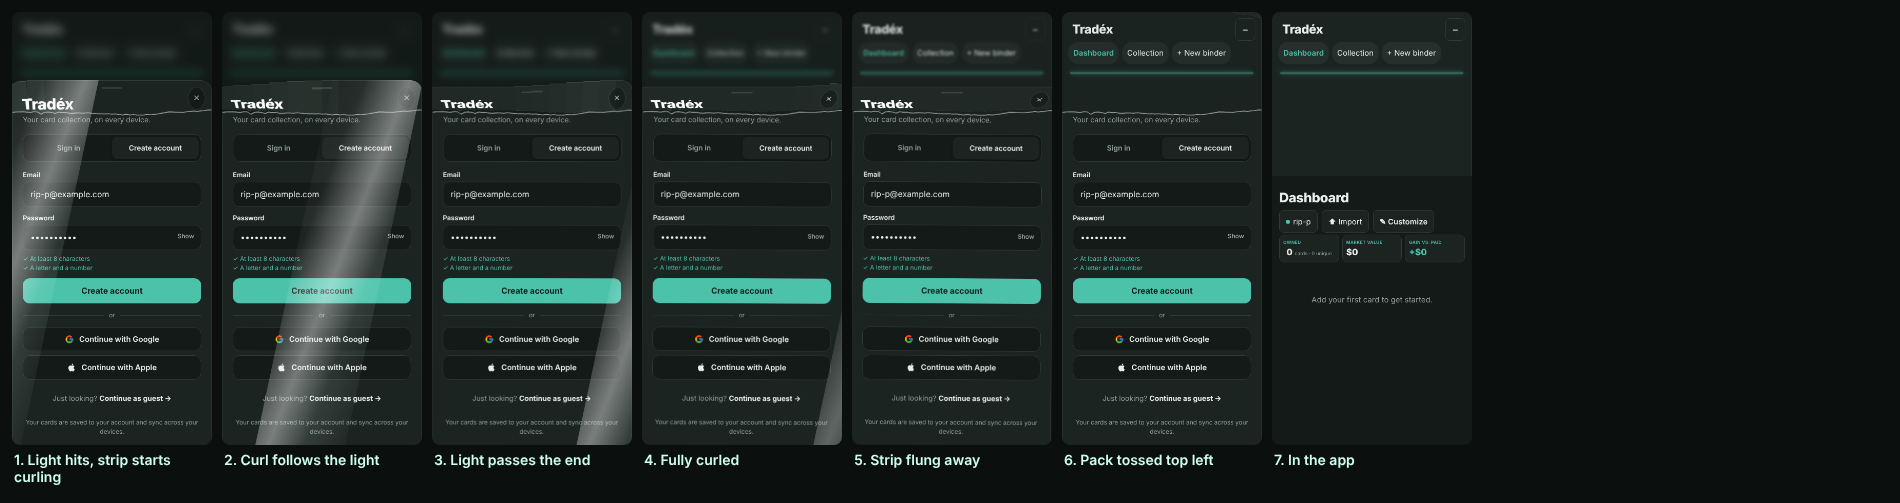
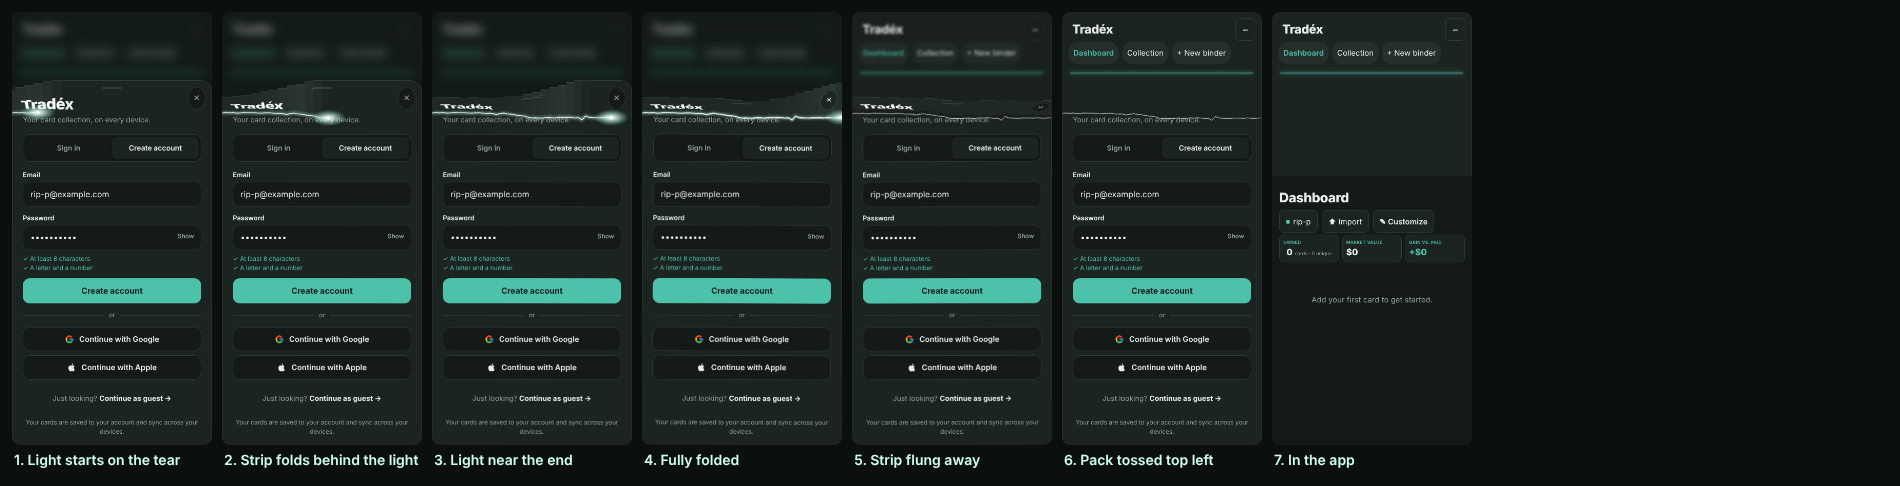
Run the light along the tear line and fold the title strip behind it
A spark travels slowly along the jagged tear, lighting the torn edge as
it goes, and the title strip folds up left to right right behind it.

Claude-Session: https://claude.ai/code/session_01K6ofJxh6QarDQ2gKnJ83gJ

diff --git a/js/account.js b/js/account.js
@@ -107,7 +107,7 @@ const css=`#txa{position:fixed;inset:0;z-index:100000;display:flex;align-items:c
  background:rgba(6,10,9,.38);-webkit-backdrop-filter:blur(9px) saturate(1.15);backdrop-filter:blur(9px) saturate(1.15);animation:txin .35s ease-out;
  transition:background .7s ease,backdrop-filter .7s ease,-webkit-backdrop-filter .7s ease}
 #txa.clear{background:rgba(6,10,9,0);-webkit-backdrop-filter:blur(0) saturate(1);backdrop-filter:blur(0) saturate(1);pointer-events:none}
-#txa.rip{transition-duration:1.2s;transition-delay:.25s;overflow:hidden}#txa.rip .bx{pointer-events:none}
+#txa.rip{transition-duration:1.1s;transition-delay:1.1s;overflow:hidden}#txa.rip .bx{pointer-events:none}
 #txa.clear:not(.rip) .bx{transition:transform .35s ease-in,opacity .3s ease-in;transform:translateY(16px) scale(.97);opacity:0}
 @media(prefers-reduced-motion:reduce){#txa,#txa.clear .bx{transition:none;animation:none}}
 @keyframes txin{from{opacity:0}}@keyframes txup{from{transform:translateY(40px);opacity:0}}
@@ -249,30 +249,39 @@ function lift(rip){const g=$('#txa');if(!g||g.classList.contains('clear'))return
   v.style.cssText=`position:absolute;left:0;top:0;width:100%;height:${cut+12}px;pointer-events:none;overflow:visible`;
   v.innerHTML=`<polyline points="${pts.map(([x,y])=>x+','+y).join(' ')}" fill="none" stroke="rgba(255,255,255,.6)" stroke-width="1.6" vector-effect="non-scaling-stroke" stroke-linejoin="bevel"/>`;return v};
  const at=x=>{for(let i=1;i<pts.length;i++)if(pts[i][0]>=x){const[a,b]=[pts[i-1],pts[i]];return b[0]===a[0]?b[1]:a[1]+(b[1]-a[1])*(x-a[0])/(b[0]-a[0])}return pts[pts.length-1][1]};
- // The torn-off strip is cut into narrow columns so it can curl up column by column behind the light sweep.
- const wrap=document.createElement('div'),N=12,SW=560;wrap.setAttribute('aria-hidden','true');
- Object.assign(wrap.style,{position:'fixed',left:r.left+'px',top:r.top+'px',width:r.width+'px',height:r.height+'px',pointerEvents:'none',zIndex:1,perspective:'700px',perspectiveOrigin:`50% ${cut}px`,transformOrigin:`0 ${cut}px`});
+ // The torn-off strip is cut into narrow columns so it can fold up column by column behind the light.
+ const wrap=document.createElement('div'),N=24,SW=1150;wrap.setAttribute('aria-hidden','true');
+ Object.assign(wrap.style,{position:'fixed',left:r.left+'px',top:r.top+'px',width:r.width+'px',height:r.height+'px',pointerEvents:'none',zIndex:1,perspective:'800px',perspectiveOrigin:`50% ${cut}px`,transformOrigin:`0 ${cut}px`});
+ const slices=[];
  for(let k=0;k<N;k++){const x0=k/N*100,x1=(k+1)/N*100,inner=pts.filter(([x])=>x>x0&&x<x1).reverse().map(([x,y])=>`${x}% ${y}px`);
-  const sl=bx.cloneNode(true);sl.querySelectorAll('[id]').forEach(e=>e.removeAttribute('id'));sl.appendChild(fray());
+  const sl=bx.cloneNode(true);sl.querySelectorAll('[id]').forEach(e=>e.removeAttribute('id'));
   Object.assign(sl.style,{position:'absolute',left:0,top:0,width:r.width+'px',height:r.height+'px',margin:0,maxHeight:'none',animation:'none',boxSizing:'border-box',
-   clipPath:`polygon(${x0-.15}% 0,${x1+.15}% 0,${x1+.15}% ${at(x1)}px,${inner.join(',')}${inner.length?',':''}${x0-.15}% ${at(x0)}px)`,transformOrigin:`${(x0+x1)/2}% ${cut}px`});
-  wrap.appendChild(sl);sl.scrollTop=bx.scrollTop;
-  const d=60+k/N*SW*.75;
-  sl.animate([{transform:'none',filter:'brightness(1)'},{transform:'rotateX(-18deg)',filter:'brightness(1.45)',offset:.45},{transform:'translateY(-5px) rotateX(-48deg)',filter:'brightness(1.15)'}],
-   {duration:260,delay:d,easing:'ease-out',fill:'both'})}
- g.appendChild(wrap);bx.appendChild(fray());bx.style.clipPath=`polygon(${edge.join(',')},100% 100%,0 100%)`;bx.style.animation='none';
- // A band of light sweeps left to right across the whole card, like foil catching the light as the pack is torn.
- const glow=document.createElement('div');glow.setAttribute('aria-hidden','true');
- Object.assign(glow.style,{position:'fixed',left:r.left+'px',top:r.top+'px',width:r.width+'px',height:r.height+'px',borderRadius:getComputedStyle(bx).borderRadius,overflow:'hidden',pointerEvents:'none',zIndex:2});
- glow.innerHTML='<i style="position:absolute;top:-20%;bottom:-20%;left:0;width:45%;background:linear-gradient(100deg,transparent 0,rgba(255,255,255,.05) 25%,rgba(255,255,255,.42) 50%,rgba(220,255,240,.12) 70%,transparent 100%);mix-blend-mode:screen;transform:translateX(-110%) skewX(-12deg)"></i>';
- g.appendChild(glow);glow.firstChild.animate([{transform:'translateX(-110%) skewX(-12deg)'},{transform:`translateX(${r.width*1.05}px) skewX(-12deg)`}],{duration:SW,easing:'cubic-bezier(.4,.1,.6,.9)',fill:'forwards'})
-  .onfinish=()=>glow.animate([{opacity:1},{opacity:0}],{duration:120,fill:'forwards'});
- const T=SW+140,E='cubic-bezier(.5,0,.75,0)',tot=T+650;
- // Once the light has passed, the curled strip is flung to the top right…
+   clipPath:`polygon(${x0-.15}% 0,${x1+.15}% 0,${x1+.15}% ${at(x1)}px,${inner.join(',')}${inner.length?',':''}${x0-.15}% ${at(x0)}px)`,transformOrigin:`${(x0+x1)/2}% ${at((x0+x1)/2)}px`});
+  wrap.appendChild(sl);sl.scrollTop=bx.scrollTop;slices.push(sl);
+  // each column folds up off the tear line just after the light has passed under it
+  sl.animate([{transform:'none',filter:'brightness(1)'},{transform:'translateY(-2px) rotateX(-35deg)',filter:'brightness(1.5)',offset:.4},{transform:'translateY(-6px) rotateX(-70deg)',filter:'brightness(1.1)'}],
+   {duration:560,delay:x1/100*SW-60,easing:'ease-out',fill:'both'})}
+ g.appendChild(wrap);bx.style.clipPath=`polygon(${edge.join(',')},100% 100%,0 100%)`;bx.style.animation='none';
+ // A spark of light runs slowly along the tear line, lighting the torn edge as it goes.
+ const W=r.width,H=cut+24,P=pts.map(([x,y])=>[x/100*W,y]),d='M'+P.map(([x,y])=>x.toFixed(1)+' '+y).join(' L'),len=P.reduce((a,p,i)=>i?a+Math.hypot(p[0]-P[i-1][0],p[1]-P[i-1][1]):0,0);
+ const lit=document.createElement('div');lit.setAttribute('aria-hidden','true');
+ Object.assign(lit.style,{position:'fixed',left:r.left+'px',top:r.top+'px',width:W+'px',height:H+'px',pointerEvents:'none',zIndex:2,overflow:'visible'});
+ lit.innerHTML=`<svg width="${W}" height="${H}" style="overflow:visible;display:block"><defs><radialGradient id="txsp"><stop offset="0" stop-color="#fff"/><stop offset=".25" stop-color="#e9fff6" stop-opacity=".9"/><stop offset="1" stop-color="#7fe0c0" stop-opacity="0"/></radialGradient>
+  <filter id="txbl" x="-50%" y="-50%" width="200%" height="200%"><feGaussianBlur stdDeviation="2.5"/></filter></defs>
+  <path d="${d}" fill="none" stroke="#bff5e2" stroke-width="5" stroke-opacity=".55" filter="url(#txbl)" stroke-dasharray="${len}" stroke-dashoffset="${len}"/>
+  <path d="${d}" fill="none" stroke="rgba(255,255,255,.85)" stroke-width="1.6" stroke-linejoin="bevel" stroke-dasharray="${len}" stroke-dashoffset="${len}"/>
+  <ellipse rx="34" ry="16" fill="url(#txsp)" opacity=".9"/><circle r="3.2" fill="#fff"/></svg>`;
+ g.appendChild(lit);const [glowP,lineP]=lit.querySelectorAll('path'),[halo,dot]=[lit.querySelector('ellipse'),lit.querySelector('circle')],t0=performance.now();
+ (function step(now){const q=Math.min(1,(now-t0)/SW),e=q<.5?2*q*q:1-Math.pow(-2*q+2,2)/2,pt=lineP.getPointAtLength(e*len);
+  glowP.style.strokeDashoffset=lineP.style.strokeDashoffset=len*(1-e);halo.setAttribute('cx',pt.x);halo.setAttribute('cy',pt.y);dot.setAttribute('cx',pt.x);dot.setAttribute('cy',pt.y);
+  if(q<1)requestAnimationFrame(step);else{halo.animate([{opacity:.9},{opacity:0}],{duration:200,fill:'forwards'});dot.animate([{opacity:1},{opacity:0}],{duration:200,fill:'forwards'});
+   bx.appendChild(fray());slices.forEach(sl=>sl.appendChild(fray()));lit.animate([{opacity:1},{opacity:0}],{duration:260,delay:120,fill:'forwards'})}})(t0);
+ const T=SW+380,E='cubic-bezier(.5,0,.75,0)',tot=T+650;
+ // Once the strip has folded all the way across, it is flung to the top right…
  wrap.animate([{transform:'none',offset:0},{transform:'none',offset:T/(T+520)},{transform:'translate(30px,-30px) rotate(-8deg)',offset:(T+120)/(T+520)},
   {transform:`translate(${innerWidth}px,${-innerHeight*.6}px) rotate(35deg)`}],{duration:T+520,easing:'ease-in',fill:'forwards'});
  // …and the opened pack shivers from the tear, lifts, and is tossed off the top left while the haze clears.
- const f=t=>t/tot;bx.animate([{transform:'none'},{transform:'rotate(.6deg)',offset:f(140)},{transform:'rotate(-.5deg)',offset:f(280)},{transform:'none',offset:f(420)},{transform:'none',offset:f(T)},
+ const f=t=>t/tot;bx.animate([{transform:'none'},{transform:'rotate(.4deg)',offset:f(SW*.3)},{transform:'rotate(-.4deg)',offset:f(SW*.6)},{transform:'none',offset:f(SW*.9)},{transform:'none',offset:f(T)},
   {transform:'translateY(-22px) rotate(-2deg)',offset:f(T+200)},{transform:`translate(${-innerWidth*.7}px,${-innerHeight*1.1}px) rotate(-28deg)`}],{duration:tot,easing:E,fill:'forwards'});
  setTimeout(()=>{if(g.classList.contains('clear'))g.remove()},tot+60)}
 function guest(rip){LS('tradex_guest','1');lift(rip);H.classList.remove('pend');guestBtn()}
